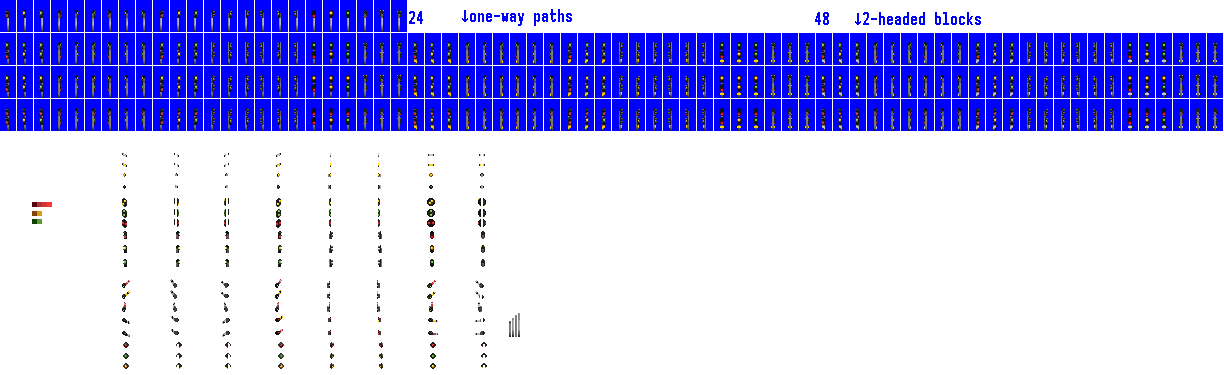
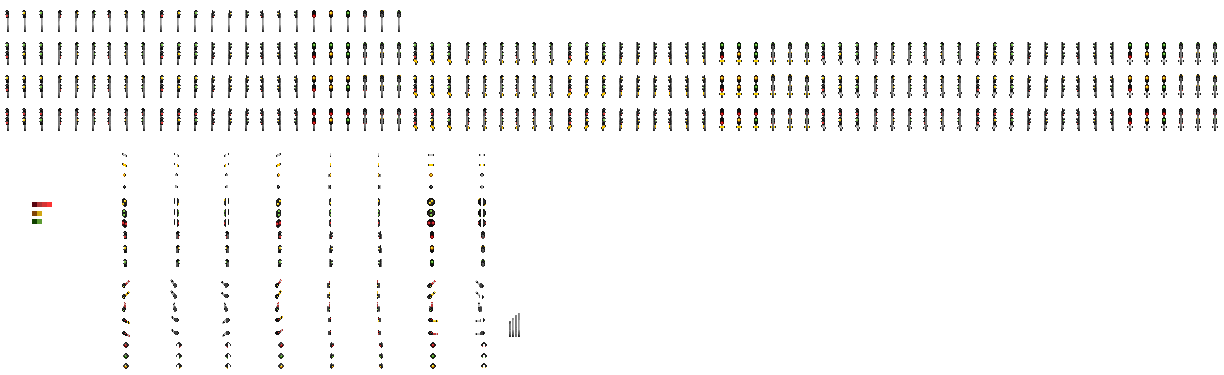
v1.4.0: change to use NORAC

Changed region(s): [[0.0, 0.0, 1.0, 0.352], [0.3725, 0.0293, 0.4657, 0.0587]]

diff --git a/src/generateSpritesets.py b/src/generateSpritesets.py
@@ -4,8 +4,8 @@ from collections import OrderedDict
 
 ONEWAY_PATH_OFFSET = 24
 DOUBLE_BLOCK_OFFSET = 48
-TEMPLATE_SINGLE = """spriteset(signal_{head}_{signalType}_{aspect}, "src/img/{name}/{name}.png"){{{southwestOffset}}}"""
-TEMPLATE = """spriteset(signal_{head}_{signalVariant}_{signalType}_{aspect}, "src/img/{name}/{name}.png"){{{southwestOffset}}}"""
+TEMPLATE_SINGLE = """spriteset(signal_{head}_{signalType}_{aspect}, ZOOM_LEVEL_NORMAL, BIT_DEPTH_32BPP, "src/img/{name}/{name}.png"){{{southwestOffset}}}"""
+TEMPLATE_DOUBLE = """spriteset(signal_{head}_{signalVariant}_{signalType}_{aspect}, ZOOM_LEVEL_NORMAL, BIT_DEPTH_32BPP, "src/img/{name}/{name}.png"){{{southwestOffset}}}"""
 
 
 class V(Enum):
@@ -36,12 +36,8 @@ class SA(Enum):
 
 class DA(Enum):
     Clear = "CLEAR"
-    AdvanceApproachMedium = "ADVANCE_APPROACH_MEDIUM"
     ApproachMedium = "APPROACH_MEDIUM"
-    AdvanceApproach = "ADVANCE_APPROACH"
-    MediumClear = "MEDIUM_CLEAR"
     Approach = "APPROACH"
-    Restricting = "RESTRICTING"
     Stop = "STOP"
 
     def __str__(self) -> str:
@@ -49,20 +45,16 @@ class DA(Enum):
 
 
 single_head_aspects = OrderedDict({
-    SA.Clear: [(0, 2)],
-    SA.Approach: [(0, 1)],
     SA.Stop: [(0, 0)],
+    SA.Approach: [(0, 1)],
+    SA.Clear: [(0, 2)],
 })
 
 double_head_aspects = OrderedDict({
-    DA.Clear: [(1, 2), (1, 0)],
-    DA.AdvanceApproachMedium: [(1, 1)],
-    DA.ApproachMedium: [(2, 2)],
-    DA.AdvanceApproach: [(2, 1)],
-    DA.MediumClear: [(3, 2)],
-    DA.Approach: [(2, 0)],
-    DA.Restricting: [(3, 1)],
     DA.Stop: [(3, 0)],
+    DA.Approach: [(2, 0)],
+    DA.ApproachMedium: [(2, 2)],
+    DA.Clear: [(1, 0)],
 })
 
 aspects = OrderedDict({
@@ -114,7 +106,7 @@ def main():
                             )
                             print(formatted)
                     else:
-                        formatted = TEMPLATE.format(
+                        formatted = TEMPLATE_DOUBLE.format(
                             head=head,
                             signalVariant=variant,
                             signalType=signal_type,

diff --git a/changelog.md b/changelog.md
@@ -1,5 +1,11 @@
 # Changelog
 
+## v1.4.0
+
+- Completely overhaul signal aspects to follow NORAC rules.
+- All signals use the same aspects.
+- Update graphics to 32bpp.
+
 ## v1.3.3
 
 - Remove incompatibility with North American Track Set and North American Track Set 2. Note that for both GRFs, the "custom signals" parameter should be set to off.
